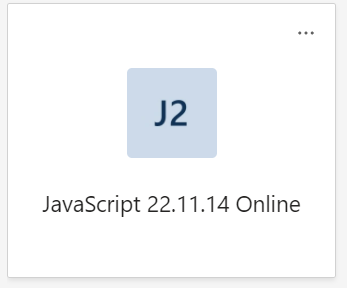
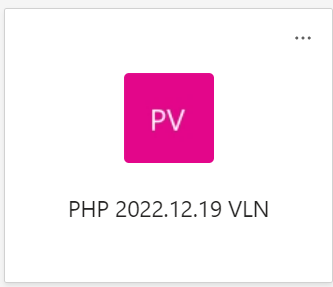
php 2022-12-19

diff --git a/slides.md b/slides.md
@@ -5,7 +5,7 @@ theme: default
 # like them? see https://unsplash.com/collections/94734566/slidev
 # background: https://source.unsplash.com/collection/94734566/1920x1080
 # apply any windi css classes to the current slide
-class: 'text-center'
+class: "text-center"
 # https://sli.dev/custom/highlighters.html
 highlighter: shiki
 # show line numbers in code blocks
@@ -23,7 +23,7 @@ drawings:
 css: unocss
 ---
 
-# JavaScript 22.11.14
+# PHP 2022.12.19
 
 Batijos Technologijų Institutas
 
@@ -32,8 +32,6 @@ Batijos Technologijų Institutas
     Press Space for next page <carbon:arrow-right class="inline"/>
   </span>
 </div> -->
-
-
 
 <style>
 h1 {
@@ -52,24 +50,16 @@ The last comment block of each slide will be treated as slide notes. It will be 
 
 ---
 
-
-
-
-
-
-
 # Programavimo mokykla
- 
+
 ```js
 while(not a programmer){
   learn
 }
 ```
 
-
-
-<div class="w-180 relative mt-6">
-  <div class="relative w-40 h-40">
+<div class="w-260 relative mt-6">
+  <div class="relative w-100 h-40">
     <img
       v-motion
       :initial="{ x: 800, y: -100, scale: 1.5, rotate: -50 }"
@@ -79,13 +69,7 @@ while(not a programmer){
     />
   </div>
 
-  <div
-    class="text-5xl absolute top-14 left-40 text-[#2B90B6] -z-1"
-    v-motion
-    :initial="{ x: -80, opacity: 0}"
-    :enter="{ x: 0, opacity: 1, transition: { delay: 2000, duration: 1000 } }">
-    Įrankis pasiekti tikslą
-  </div>
+ 
 </div>
 
 <!-- vue script setup scripts can be directly used in markdown, and will only affects current page -->
@@ -104,7 +88,6 @@ const final = {
 }
 </script>
 
-
 <ul>
 <li> Kiek valandų realaus darbo įdedama</li>
 <li> Kokia asmenybė</li>
@@ -114,104 +97,106 @@ const final = {
 <li> Aplikavimas į darbo pozicijas</li>
 </ul>
 
-
-
 ---
 
 # Programa
 
-Neformali programa nuo formalios skiriasi tik tuo, kad nėra egzaminų.
+Tik oficialų egzaminą laikantys studentais gaus oficialų diplomą. 
+Formaliems studentams 40% egzamino rezultato sudarys bendras įvertinimos vidurkis.
 
 <div class="grid grid-cols-3 gap-10 pt-4 -mb-6">
 
-
 ```mermaid {scale: 0.55}
 journey
-    title JavaScript programa
+    title PHP programa
     section Pirmas modulis (8sav.)
       Front-end: 5: Rimantas
       Testas (Teorija + Praktika): 5
-    section Antras modulis (3sav.)
-      NodeJS: 5: Rimantas
+    section Antras modulis (2sav.)
+      React: 5: Arvydas
       Testas (Teorija + Praktika): 5
-    section Trečias modulis (10sav.)
-      ReactJS: 5: Arvydas
-      DB, Express: 5: Arvydas
+    section Trečias modulis (11sav.)
+      PHP: 5: Arvydas
+      DB, Laravel: 5: Arvydas
       Mokykl. egzaminas (Teorija + Praktika): 5
+
 ```
 
 </div>
-<ul>
-<li> <mdi-brain /> Testai - vyks penktadienį po modulio pabaigos.</li>
-<li> <mdi-book-open-blank-variant />  Mokyklinis egzaminas - Balandžio 13d. </li>
-<li> <mdi-school />  Oficialus egzaminas - Mokamas (217,83 &euro;), vyksta egzaminų centro nustatytą dieną (įprastai apie 2-3sav. po studijų)</li>
+<ul style="font-size: 14px">
+<li> <mdi-brain /> Testai - vyks penktadienį po modulio pabaigos. (Privalomi tik formaliems)</li>
+<li> <mdi-book-open-blank-variant />  Mokyklinis egzaminas - gegužės 19d. arba  gegužės 22d. (Privalomas tik formaliems)</li>
+<li> <mdi-school />  Oficialus egzaminas - formaliems studentams, vyksta egzaminų centro nustatytą dieną (įprastai apie 2-3sav. po studijų)</li>
 </ul>
-
 
 ---
 
 # Dėstytojai
-  <div  grid="~ cols-3 gap-4" border="~ gray-400 opacity-50 rounded-md" style="margin: auto">
+
+  <div  grid="~ cols-3 gap-2" border="~ gray-400 opacity-50 rounded-md" style="margin: auto">
 <img src='/assets/rimas.png' alt='rimantas belovas'/>
 <img src='/assets/arvydas.png' alt='arvydas kijakauskas'/>
  </div>
 
 <img style="width: 20%; margin-top:30px" src='/assets/grupe.png' alt='simonas' />
 
-
 ---
 
 # Mentoriai
+
   <div  grid="~ cols-3 gap-4" border="~ gray-400 opacity-50 rounded-md">
-  <div >
+  <div style="text-align: center; font-weight:bold">
   <img src='/assets/simona.jpg' alt='simonas' style="border-radius:50%; height: 200px; margin: auto"/>
-    <h5 style="text-align: center; font-weight:bold "> Simona Zimkienė</h5>
+    <h4 > Simona Zimkienė</h4>
+       <span>I-V 08:00 - 17:00</span>
   </div>
-  <div>
+  <div style="text-align: center; font-weight:bold">
  <img src='/assets/vilius.jpg' alt='vilius' style="border-radius:50%; height: 200px; margin: auto"/>
-    <h5 style="text-align: center; font-weight:bold"> Vilius Ramulionis</h5>
+    <h4 > Vilius Ramulionis</h4>
+       <span>I-V 08:00 - 17:00</span>
   </div>
-    <div>
+    <div style="text-align: center; font-weight:bold">
   <img src='/assets/deimante.jpg' alt='deimante' style="border-radius:50%; height: 200px; margin: auto"/>
-    <h5 style="text-align: center; font-weight:bold"> Deimantė Barauskaitė</h5>
+    <h4 > Deimantė Barauskaitė</h4>
+    <span>I-IV 08:00 - 17:00</span>
   </div>
  </div>
-<div  grid="~ cols-1 gap-4" border="~ gray-400 opacity-50 rounded-md" style="margin-top: 10px">
+<div  grid="~ cols-1 gap-4" border="~ gray-400 opacity-50 rounded-md" style="margin-top: 10px; width: 80%; display: inline-block">
 <img src='/assets/search.png' alt='simonas' />
 </div>
-<div  grid="~ cols-9 gap-4" style="margin-top: 5px">
-<img src='/assets/call.png' alt='simonas' />
+<div  grid="~ cols-9 gap-4" style="margin-top: 5px; display: inline-block">
+<img src='/assets/call.png' alt='call-icon' />
+
 </div>
+<img src='/assets/microsoft-teams-logo-2.png' alt='teams' style="width: 30%"/>
+
 ---
 
 # Tvarkaraštis
 
-|     |     |
-| --- | --- |
-| <kbd>Pirmadienis</kbd> - <kbd>Ketvirtadienis</kbd> <br/><code>12:30 - 14:55 (10min. pertrauka)</code>| Teorija |
-| <kbd>Pirmadienis</kbd> - <kbd>Ketvirtadienis</kbd> <br/><code>09:35 - 12:30</code><br/><code>14:55 - 16:35</code>| <b>Praktika</b> |
-| <kbd>Penktadienis</kbd>| Praktikos diena (Namų darbų atlikimas / Penktadienio iššūkiai / Testai / Penktadienio pranešimai) |
-| <kbd>Nedarbo dienos</kbd> | Paskaitos nevyksta |
+|                                                                                                                   |                                                                                                   |
+| ----------------------------------------------------------------------------------------------------------------- | ------------------------------------------------------------------------------------------------- |
+| <kbd>Pirmadienis</kbd> - <kbd>Ketvirtadienis</kbd> <br/><code>12:30 - 14:55 (10min. pertrauka)</code>             | Teorija                                                                                           |
+| <kbd>Pirmadienis</kbd> - <kbd>Ketvirtadienis</kbd> <br/><code>09:00 - 12:00</code><br/><code>15:05 - 16:00</code> | <b>Praktika</b>                                                                                   |
+| <kbd>Penktadienis</kbd>                                                                                           | Praktikos diena (Namų darbų atlikimas / Penktadienio iššūkiai / Testai / Penktadienio pranešimai) |
+| <kbd>Nedarbo dienos</kbd>                                                                                         | Paskaitos nevyksta                                                                                |
 
 ---
 
 ## Praktika
 
-
 ```mermaid {theme: 'neutral', scale: 0.8}
 graph LR
 
 B(Studentas išsiskaido uždavinį ir pradeda spręsti) -->C(Pastrigimas)
-C -->|1| D[Ruby duck debugging] 
+C -->|1| D[Ruby duck debugging]
  -->|2| E[Google]
- -->|3| F[Kolegos] 
+ -->|3| F[Kolegos]
  -->|4| G[Mentorius]
 
 ```
 
 <img style="width: 70%" src='/assets/work.png' alt='simonas' />
-
-
 
 ---
 
@@ -223,10 +208,7 @@ C -->|1| D[Ruby duck debugging]
 <li>HR</li>
 </ul>
 
-
 <img style="width: 70%" src='/assets/pp.png' alt='simonas' />
-
-
 
 ---
 
@@ -238,49 +220,32 @@ Veikla penktadieniais su tikslu išmokti papildomą įrankį Figma ir nepamiršt
 
 ---
 
-
-
-## Daily Stand-ups
-
-Robotukas kuris bus mūsų dienoraštis, padės sekti progresą ir planuoti dieną.
-
--  **Nuo 21d. 13:00** 
--  **Gausite žinutę iš robotuko per Teams** 
--  **Atsakyti į klausimus ką planuojame pasiekti/atlikti šiandien** 
--  **Ką pavyko pasiekti/atlikti vakar?** 
--  **Ar turite kokių blokerių?** 
-
-
-<img style="width: 45%; position: relative"  src='/assets/bot.png' alt='simonas' />
-<img style="width: 60%; position: absolute; bottom: -45px; right: 0"  src='/assets/dailybot.png'>
-
----
-
 ## Lankomumas
 
-Aktualus su UŽT finansavimu studijuojantiems studentams. 
+Su UŽT finansavimu studijuojantiems studentams:
+
+
 <ul>
 <li>
-Už dienas kai nedalyvaujate paskaitoje, stipendija nebus mokama.
+Už dienas kai nedalyvaujate paskaitoje, stipendija, transporto išlaidos ir t.t. nebus mokama.
 </li>
 <li>
-Praktikos metu svarbu būti pasiekiamam per Teams.
+Praktikos metu svarbu būti pasiekiamam per Teams (online studentams). Praktikos metu svarbu būti BIT patalpose (gyvai lankantiems studentams). 
 </li>
 </ul>
 
 <img style="width: 70%"  src='/assets/lankom.png' alt='simonas' />
 
-
 ---
 
 ## Google
 
-
 Įpatingai dažnai naudojamas įrankis. Patarimai efektyvesniam googlinimui:
+
 - 🧑💻 **[Programavimo kalba] [raktiniai žodžiai]** - užklausos pvz. JS event bubbling, CSS variables not working, JS random number, HTML input,...
 - 🧑💻 **Errorus dėti į kabutes** - tuomet gausime tik pagal šią frazę atsakymus
 - 🧑💻 **site:[puslapis]** - nurodome specifinį puslapį kuriame norime rasti atsakymą. Užklausos pvz. css variables not working site:stackoverflow.com
-- 🧑💻 **-[frazė, kuri neturėtų būti užklausoje]** - užklausos pvz. how to write components in React -class 
+- 🧑💻 **-[frazė, kuri neturėtų būti užklausoje]** - užklausos pvz. how to write components in React -class
 - 🧑💻 **before:[metai], after:[metai]** - užklausos pvz. React before:2019
 
 <a href="https://www.freecodecamp.org/news/how-to-google-like-a-pro-10-tips-for-effective-googling/">Daugiau</a>
@@ -289,13 +254,12 @@ Praktikos metu svarbu būti pasiekiamam per Teams.
 
 <br>
 
-
 ---
 
 ## Shortcuts
 
-
 Laiko taupymui, greitesniam kodo rašymui:
+
 - 🧑💻 **CTRL + S** - saugoti (save)
 - 🧑💻 **CTRL + C** - kopijuoti (copy)
 - 🧑💻 **CTRL + V** - įklijuoti (paste)
@@ -309,31 +273,23 @@ Laiko taupymui, greitesniam kodo rašymui:
 - 🧑💻 **CTRL + L** - Pažymėti dabartinę eilutę
 - 🧑💻 **CTRL + SHIFT + Z** - grįžti į vėlesnį pokytį (redo)
 
-
 VScode shortcuts pdf'ai. <a href="https://vscodethemes.com/?type=dark">VS code temos</a>
-
-
 
 ---
 
 ## Kiti patarimai
 
-
-- 📝 **Kalbame/skaitome/klausome kuo dažniau apie kodą** 
-- 📝 **Aktyviai bendrauti grupiokais** 
-- 📝 **Jei turime laisvo laiko, mokomės papildomai arba prašome papildomų užduočių** 
-- 📝 **Galite susigalvoti papildomą projektą, kuriam skirtume bent po truputi laiko kasdien** 
-- 📝 **Kursų eigoje tvarkomės CV, linkedin, github** 
-- 📝 **Dalyvaujame programavimo renginiuose** 
-- 📝 **Neperdegame ir stengiamės nepamesti savo tikslo** 
-
-
-
+- 📝 **Kalbame/skaitome/klausome kuo dažniau apie kodą**
+- 📝 **Aktyviai bendrauti grupiokais**
+- 📝 **Jei turime laisvo laiko, mokomės papildomai arba prašome papildomų užduočių**
+- 📝 **Galite susigalvoti papildomą projektą, kuriam skirtume bent po truputi laiko kasdien**
+- 📝 **Kursų eigoje tvarkomės CV, linkedin, github**
+- 📝 **Dalyvaujame programavimo renginiuose**
+- 📝 **Neperdegame ir stengiamės nepamesti savo tikslo**
 
 ---
 
 # SUSIPAŽINKIME 😊
-
 
 <ol>
 <li>Vardas?</li>
